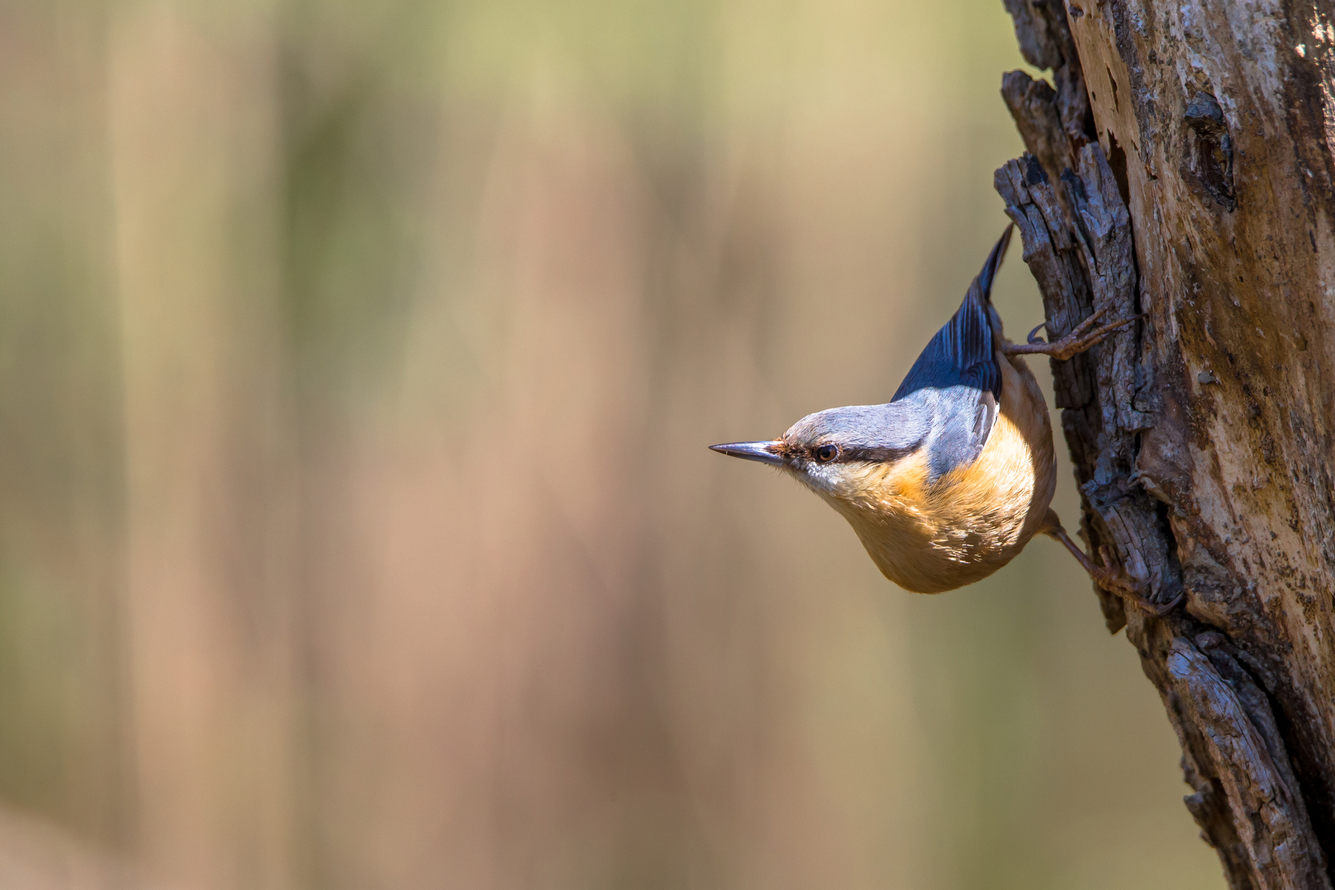
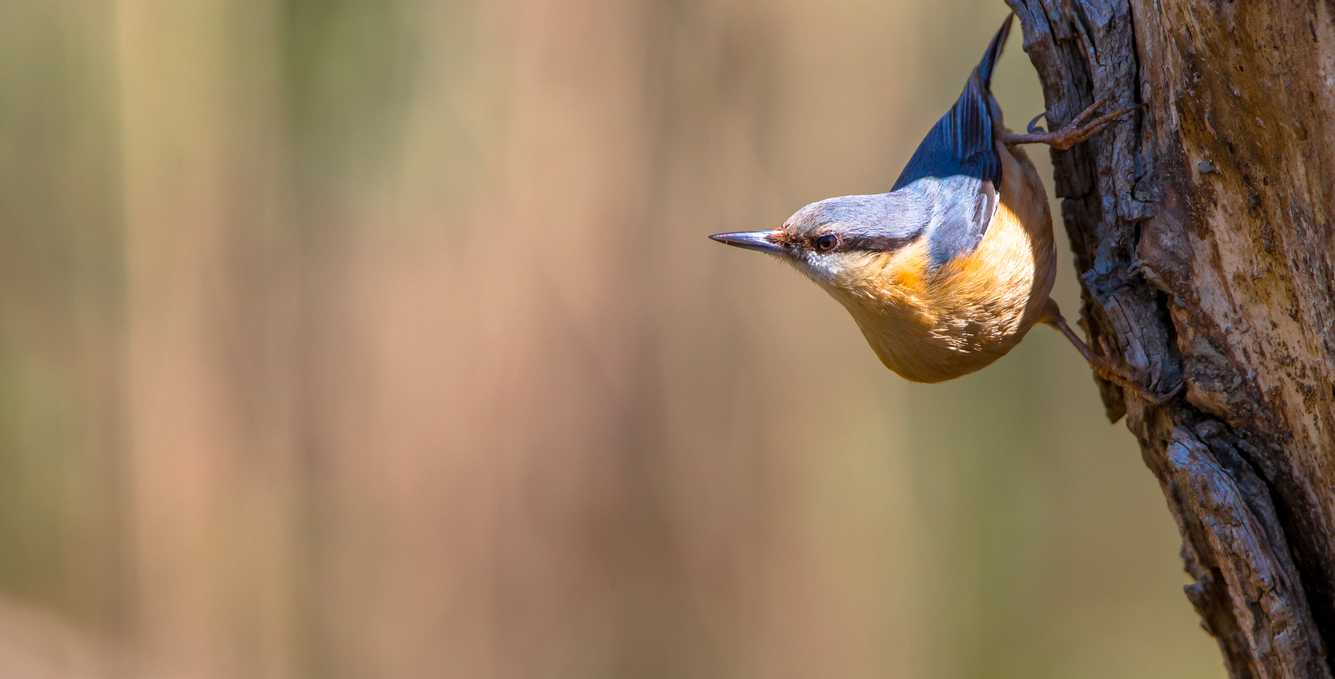
Mot de passe oublié et Inscription ajouter sur page Connexion. Page profile en cours. Ajout parallax sur les mini-header.

diff --git a/src/NAO/CoreBundle/Resources/public/css/style.css b/src/NAO/CoreBundle/Resources/public/css/style.css
@@ -273,7 +273,7 @@ ul#action-map-widget {
 /*---- page LOGIN ----*/
 
 .header-area-login {
-    background: #000000 url('../img/header-login-photo.jpg') no-repeat scroll center center / cover;
+    background: #000000 url('../img/header-login-photo.jpg') no-repeat scroll center / cover;
 }
 
 #pageLogin {
@@ -311,15 +311,31 @@ ul#action-map-widget {
     display: flex;
     align-items: flex-start;
     width: 30%;
-    margin-bottom: 25px;
 }
 
 #dejaVu input#remember_me {
     width: 25px;
+    margin-top: 7px;
 }
 
 label[for="remember_me"] {
+    font-size: 0.9em;
+    font-weight: 400;
+}
+
+.forgetAndSubscribe {
     font-size: 0.7em;
+    margin-bottom: 10px;
+    padding-left: 24px;
+}
+
+#forget, #subscribe {
+    text-decoration: underline;
+}
+
+a#forget:hover, a#subscribe:hover {
+    color: #212121;
+    text-decoration: none;
 }
 
 .btn.btn-light {
@@ -330,7 +346,7 @@ label[for="remember_me"] {
 /*---- page INSCRIPTION ----*/
 
 .header-area-register {
-    background: #000000 url('../img/header-register-photo.jpg') no-repeat scroll center -160px / cover;
+    background: #000000 url('../img/header-register-photo.jpg') no-repeat scroll center center / cover;
 }
 
 #pageRegister {
@@ -556,6 +572,24 @@ color: #848484;
 #wb_FontAwesomeIcon6:hover i {
    color: #575757;
 }*/
+
+/*---- page PROFILE ----*/
+
+.header-area-profile {
+    background: #000000 url('../img/header-profile-photo.jpg') no-repeat scroll center center / cover;
+}
+
+#pageProfile {
+    height: 960px;
+    background-color: #F6F6F6;
+    padding: 100px 200px 100px 200px;
+}
+
+.header-text-profile h2 {
+    margin-top: 216px;
+    font-size: 120px;
+    color: #FFDE00;
+}
 
 
 /*-----------------

diff --git a/src/NAO/CoreBundle/Resources/public/js/main.js b/src/NAO/CoreBundle/Resources/public/js/main.js
@@ -103,7 +103,10 @@
     magnifPopup();
 
     //Background Parallax
-    $('.header-area').parallax("50%", -0.4);
+    $('.header-area').parallax("50%", -0.6);
+    $('.header-area-register').parallax("50%", -0.6);
+    $('.header-area-login').parallax("50%", -0.6);
+    $('.header-area-profile').parallax("50%", -0.6);
     $('.price-area').parallax("50%", -0.5);
     $('.testimonial-area').parallax("10%", -0.2);
 
